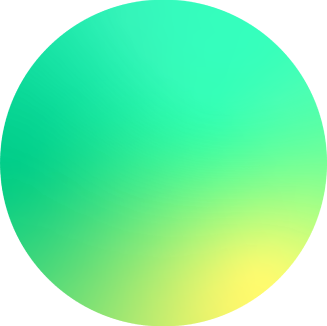
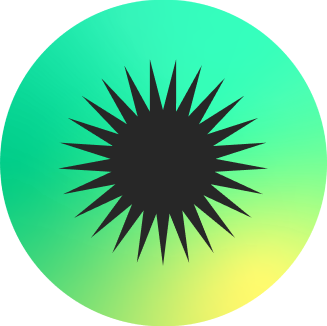
services

diff --git a/src/app/components/services/services.component.css b/src/app/components/services/services.component.css
@@ -2,20 +2,38 @@
   max-width: 78vw;
   height: 118vh;
   margin-left: 20%;
-  margin-right: 6%;
-  margin-top: 250px;
+  margin-right: 20%;
+  margin-top: 130px;
   color: white;
+}
+
+.tittle{
+  color: white;
+  margin-top: 260px;
+  font-size: 3vw;
+  text-align: center;
+  line-height: 38px;
+  font-weight: 300;
+  margin-bottom: 50px;
 }
 
 h1{
   color: #00CE88;
   font-weight: 800;
+  font-size: 2vw;
+  margin-left: 4vw;
+  margin-top: 4vh;
+}
+
+h3, h5{
+  margin-left: 4vw;
 }
 
 .line{
   height: 2px;
   background-color: #00CE88;
-  width: 10%;
+  width: 40%;
+  margin-left: 4vw;
 }
 
 img{
@@ -24,5 +42,37 @@ img{
 }
 
 .second{
-  padding-left: 27%;
+  color: white;
+  border: 4px solid white;
+  background-color: #272727;
+  border-radius: 5vw;
+  width: 38vw;
+  height: 30vh;
+  margin-left: 22vw;
 }
+
+.bloque1{
+  color: white;
+  border: 4px solid white;
+  background-color: #272727;
+  border-radius: 5vw;
+  width: 25vw;
+  height: 30vh;
+  position: absolute;
+}
+
+.image3{
+  width: 17%;
+  height: 25vh;
+  position: relative;
+  margin-top: 15vh;
+  margin-left: 20vw;
+}
+
+.image4{
+ width: 28vw;
+ height: 23vh;
+ margin-left: 26vw;
+}
+
+

diff --git a/src/app/components/services/services.component.html b/src/app/components/services/services.component.html
@@ -1,9 +1,14 @@
- <div class="container">
+<p class="tittle">Our Services</p>
+
+<div class="container">
+
+  <div class="bloque1">
 <h1>Revamp Business</h1>
 <div class="line"></div><br>
-<img src="../assets/images/Vector.png" alt="50" /><br><br>
+<br>
 <h3>   Agriculture</h3>
 <h5>Know about Mi Lote project: </h5>
+</div> <img class="image3" src="../assets/images/figura6.png" alt="50" />
 <br><br><br><br>
 
 <div class="second">
@@ -13,5 +18,5 @@
 <h3>- From napkin idea to unicorn</h3>
 <h3>- Delivery Team for product evolution</h3>
 <h3>- StaffAugmentation to scale the team</h3>
-</div>
+</div><img class="image4" src="../assets/images/figura7.png" alt="50" />
 </div>

diff --git a/src/app/components/about/about.component.css b/src/app/components/about/about.component.css
@@ -14,12 +14,12 @@
 .tittle{
   font-style: normal;
   color: white;
-  margin-top: 280px;
-  font-size: 60px;
+  margin-top: 260px;
+  font-size: 3vw;
   text-align: center;
   line-height: 38px;
   font-weight: 300;
-  margin-bottom: 200px;
+  margin-bottom: 100px;
 }
 
 h1{

diff --git a/src/app/components/works/works.component.css b/src/app/components/works/works.component.css
@@ -52,12 +52,12 @@ p{
 .tittle{
   color: white;
   width: 98vw;
-  margin-top: 280px;
-  font-size: 60px;
+  margin-top: 260px;
+  font-size: 3vw;
   text-align: center;
   line-height: 38px;
   font-weight: 300;
-  margin-bottom: 120px;
+  margin-bottom: 100px;
 }
 
 .h1-2{
